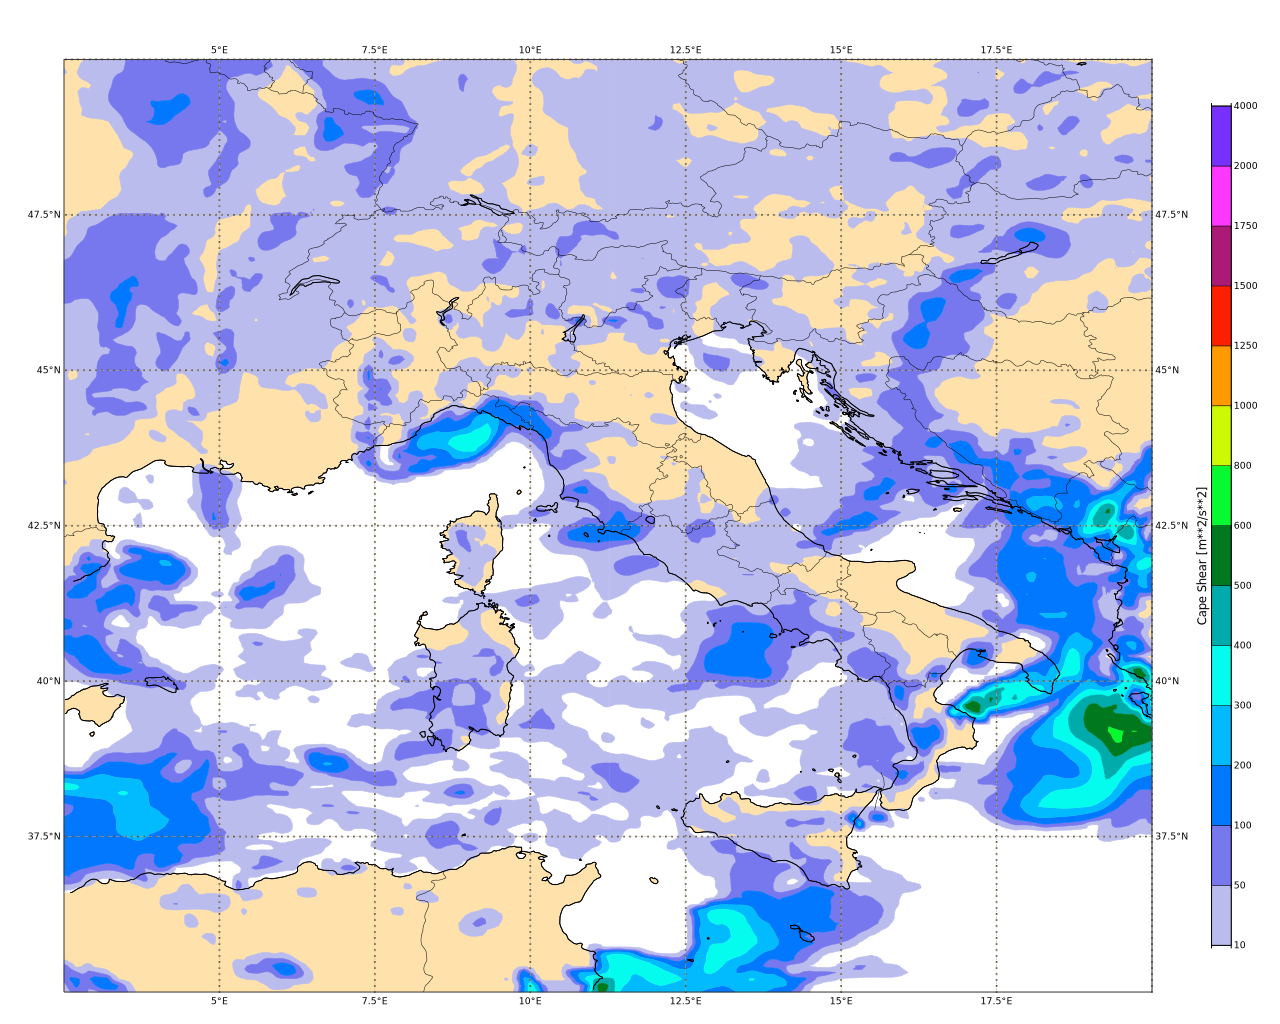
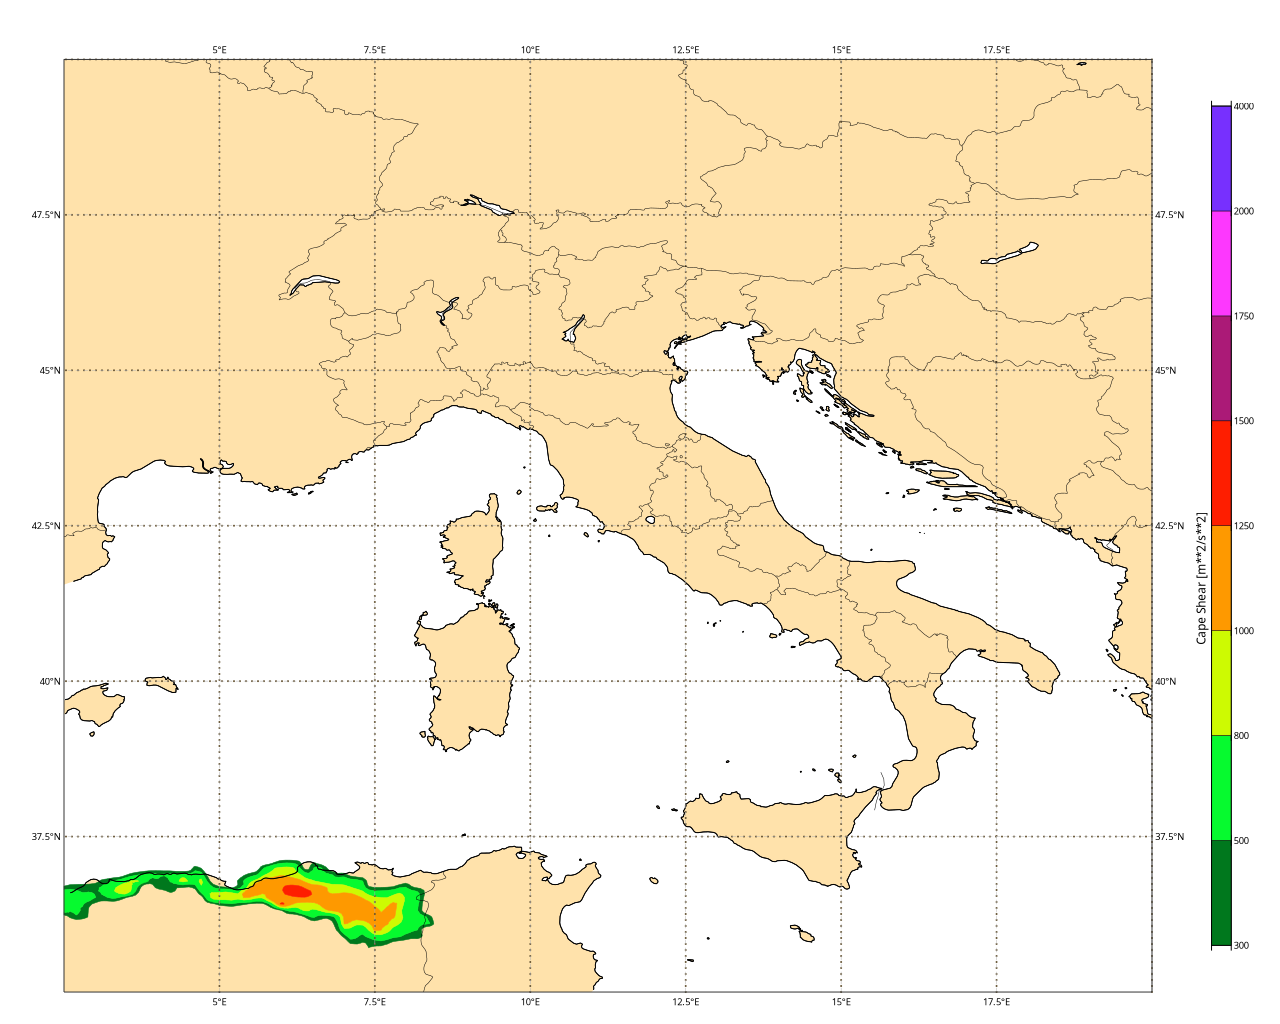
Updated contour for capeshear

diff --git a/doc/recipes/capeshear.md b/doc/recipes/capeshear.md
@@ -86,12 +86,6 @@ With arguments:
     "contour_shade_colour_method": "list",
     "contour_shade_method": "area_fill",
     "contour_shade_colour_list": [
-      "#bcbdef",
-      "#7778ef",
-      "#0178ff",
-      "#02bcff",
-      "#04fdef",
-      "#01acac",
       "#00781d",
       "#06fb2f",
       "#cefb02",
@@ -102,14 +96,8 @@ With arguments:
       "#7730ff"
     ],
     "contour_level_list": [
-      10,
-      50,
-      100,
-      200,
       300,
-      400,
       500,
-      600,
       800,
       1000,
       1250,
@@ -118,6 +106,7 @@ With arguments:
       2000,
       4000
     ],
+    "contour_shade_min_level": 300,
     "contour_highlight": false,
     "contour_hilo": false,
     "contour_label": false,
